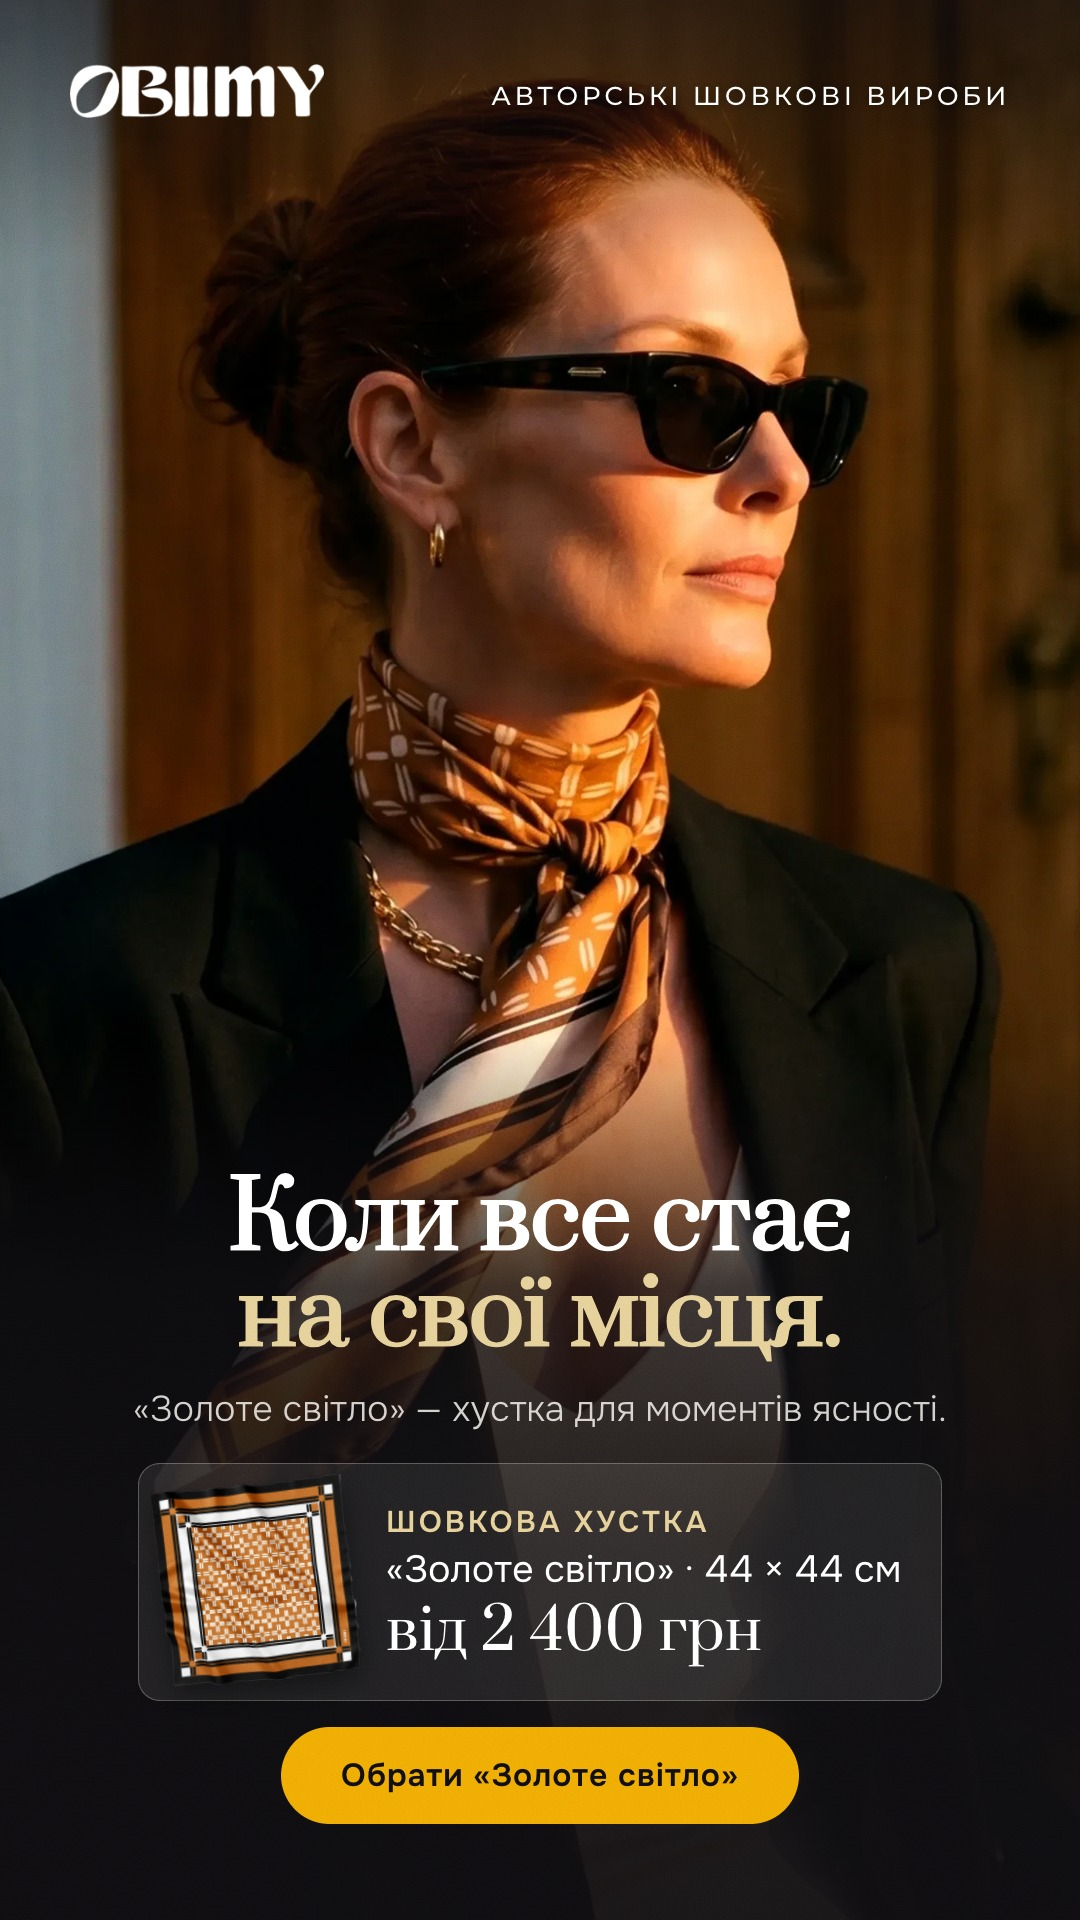
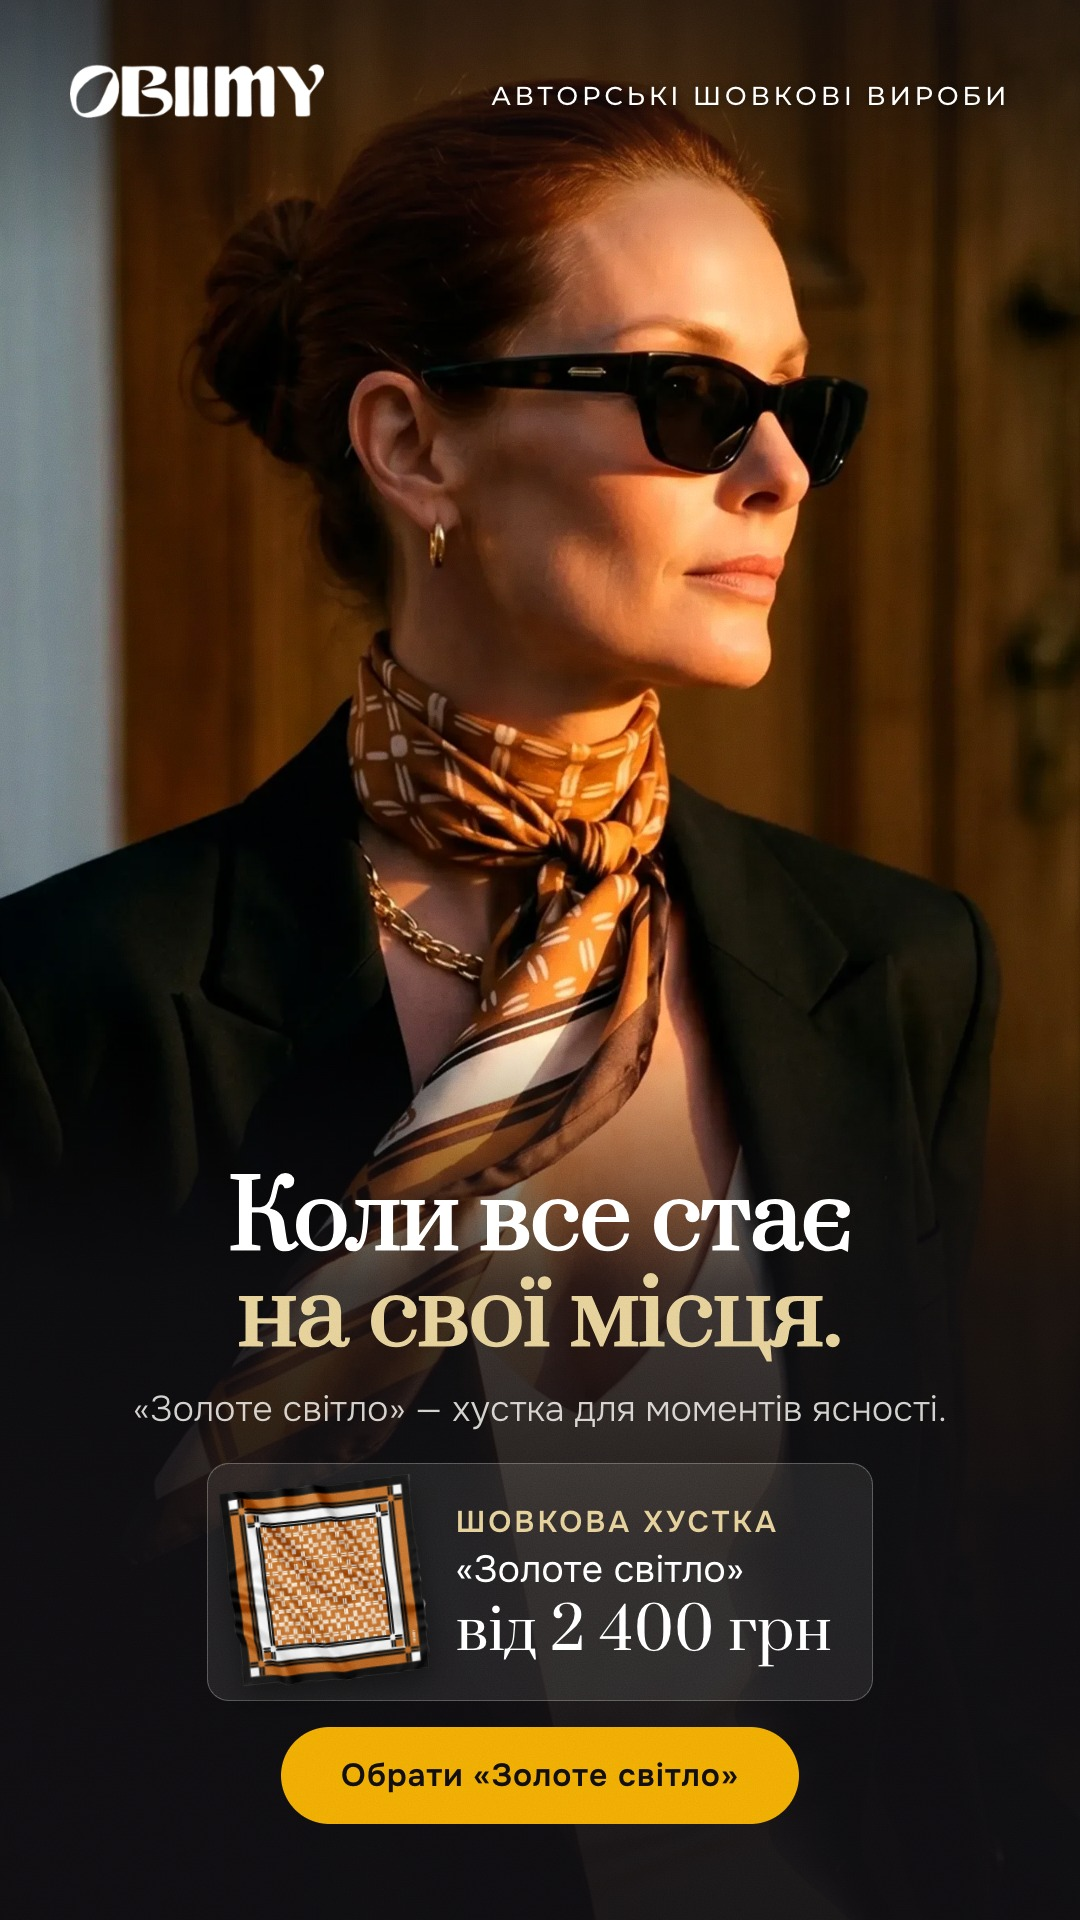
c05: no size next to «від 2 400 грн»

Changed region(s): [[0.1222, 0.75, 0.825, 0.875]]

diff --git a/site/creatives.html b/site/creatives.html
@@ -110,8 +110,8 @@ footer { margin-top: 72px; color: var(--ink2); font-size: .85rem; border-top: 1p
         <figcaption><label class="pick"><input type="checkbox" data-id="solo-orig/o12-contact-iskra.jpg"><span>Залишити</span></label><span class="fid">o12</span><a href="creatives/solo-orig/o12-contact-iskra.jpg?v=c14eb2e1" download="o12-contact-iskra.jpg">JPG ↓</a></figcaption></figure><figure class="c st" data-f="st" data-id="solo-main/u03-made-in-ua.jpg"><a href="creatives/solo-main/u03-made-in-ua.jpg?v=9a48dc13" target="_blank" rel="noopener"><img src="creatives/solo-main/u03-made-in-ua-540.webp?v=9a48dc13" alt="Варіант A · український преміум" loading="lazy" width="540" height="960"></a>
         <figcaption><label class="pick"><input type="checkbox" data-id="solo-main/u03-made-in-ua.jpg"><span>Залишити</span></label><span class="fid">u03</span><a href="creatives/solo-main/u03-made-in-ua.jpg?v=9a48dc13" download="u03-made-in-ua.jpg">JPG ↓</a></figcaption></figure><figure class="c st" data-f="st" data-id="solo-main/u05-luxury.jpg"><a href="creatives/solo-main/u05-luxury.jpg?v=9c142e12" target="_blank" rel="noopener"><img src="creatives/solo-main/u05-luxury-540.webp?v=9c142e12" alt="Варіант A · український преміум" loading="lazy" width="540" height="960"></a>
         <figcaption><label class="pick"><input type="checkbox" data-id="solo-main/u05-luxury.jpg"><span>Залишити</span></label><span class="fid">u05</span><a href="creatives/solo-main/u05-luxury.jpg?v=9c142e12" download="u05-luxury.jpg">JPG ↓</a></figcaption></figure><figure class="c st" data-f="st" data-id="solo-main/c02-iskra.jpg"><a href="creatives/solo-main/c02-iskra.jpg?v=fadee0c8" target="_blank" rel="noopener"><img src="creatives/solo-main/c02-iskra-540.webp?v=fadee0c8" alt="Варіант A · повноекранні" loading="lazy" width="540" height="960"></a>
-        <figcaption><label class="pick"><input type="checkbox" data-id="solo-main/c02-iskra.jpg"><span>Залишити</span></label><span class="fid">c02</span><a href="creatives/solo-main/c02-iskra.jpg?v=fadee0c8" download="c02-iskra.jpg">JPG ↓</a></figcaption></figure><figure class="c st" data-f="st" data-id="solo-main/c05-zolote.jpg"><a href="creatives/solo-main/c05-zolote.jpg?v=b3c76a3f" target="_blank" rel="noopener"><img src="creatives/solo-main/c05-zolote-540.webp?v=b3c76a3f" alt="Варіант A · повноекранні" loading="lazy" width="540" height="960"></a>
-        <figcaption><label class="pick"><input type="checkbox" data-id="solo-main/c05-zolote.jpg"><span>Залишити</span></label><span class="fid">c05</span><a href="creatives/solo-main/c05-zolote.jpg?v=b3c76a3f" download="c05-zolote.jpg">JPG ↓</a></figcaption></figure><figure class="c st" data-f="st" data-id="solo-main/c06-avantiura.jpg"><a href="creatives/solo-main/c06-avantiura.jpg?v=149d11a8" target="_blank" rel="noopener"><img src="creatives/solo-main/c06-avantiura-540.webp?v=149d11a8" alt="Варіант A · повноекранні" loading="lazy" width="540" height="960"></a>
+        <figcaption><label class="pick"><input type="checkbox" data-id="solo-main/c02-iskra.jpg"><span>Залишити</span></label><span class="fid">c02</span><a href="creatives/solo-main/c02-iskra.jpg?v=fadee0c8" download="c02-iskra.jpg">JPG ↓</a></figcaption></figure><figure class="c st" data-f="st" data-id="solo-main/c05-zolote.jpg"><a href="creatives/solo-main/c05-zolote.jpg?v=c023ef6a" target="_blank" rel="noopener"><img src="creatives/solo-main/c05-zolote-540.webp?v=c023ef6a" alt="Варіант A · повноекранні" loading="lazy" width="540" height="960"></a>
+        <figcaption><label class="pick"><input type="checkbox" data-id="solo-main/c05-zolote.jpg"><span>Залишити</span></label><span class="fid">c05</span><a href="creatives/solo-main/c05-zolote.jpg?v=c023ef6a" download="c05-zolote.jpg">JPG ↓</a></figcaption></figure><figure class="c st" data-f="st" data-id="solo-main/c06-avantiura.jpg"><a href="creatives/solo-main/c06-avantiura.jpg?v=149d11a8" target="_blank" rel="noopener"><img src="creatives/solo-main/c06-avantiura-540.webp?v=149d11a8" alt="Варіант A · повноекранні" loading="lazy" width="540" height="960"></a>
         <figcaption><label class="pick"><input type="checkbox" data-id="solo-main/c06-avantiura.jpg"><span>Залишити</span></label><span class="fid">c06</span><a href="creatives/solo-main/c06-avantiura.jpg?v=149d11a8" download="c06-avantiura.jpg">JPG ↓</a></figcaption></figure><figure class="c st" data-f="st" data-id="solo-main/c10-grey.jpg"><a href="creatives/solo-main/c10-grey.jpg?v=6d2e58c5" target="_blank" rel="noopener"><img src="creatives/solo-main/c10-grey-540.webp?v=6d2e58c5" alt="Варіант A · повноекранні" loading="lazy" width="540" height="960"></a>
         <figcaption><label class="pick"><input type="checkbox" data-id="solo-main/c10-grey.jpg"><span>Залишити</span></label><span class="fid">c10</span><a href="creatives/solo-main/c10-grey.jpg?v=6d2e58c5" download="c10-grey.jpg">JPG ↓</a></figcaption></figure><figure class="c st" data-f="st" data-id="solo-main/c18-look.jpg"><a href="creatives/solo-main/c18-look.jpg?v=959ab34e" target="_blank" rel="noopener"><img src="creatives/solo-main/c18-look-540.webp?v=959ab34e" alt="Варіант A · товарні" loading="lazy" width="540" height="960"></a>
         <figcaption><label class="pick"><input type="checkbox" data-id="solo-main/c18-look.jpg"><span>Залишити</span></label><span class="fid">c18</span><a href="creatives/solo-main/c18-look.jpg?v=959ab34e" download="c18-look.jpg">JPG ↓</a></figcaption></figure><figure class="c st" data-f="st" data-id="solo-main/c23-look-dark.jpg"><a href="creatives/solo-main/c23-look-dark.jpg?v=0b5e734a" target="_blank" rel="noopener"><img src="creatives/solo-main/c23-look-dark-540.webp?v=0b5e734a" alt="Варіант A · товарні" loading="lazy" width="540" height="960"></a>

diff --git a/ads/solo/solo4.html b/ads/solo/solo4.html
@@ -105,7 +105,7 @@ body { margin: 0; background: #666; font-family: 'Onest', 'Helvetica Neue', Aria
     <div style="display:flex;align-items:center;gap:32px;margin-top:28px;padding:18px 40px 18px 20px;border-radius:22px;background:rgba(244,242,237,.1);border:1.5px solid rgba(244,242,237,.3);text-align:left;box-shadow:none">
       <div style="display:flex;align-items:center;flex:none"><img src="src/zolote-44-1-cut.webp" alt="" style="height:200px;width:auto;max-width:220px;object-fit:contain;margin-left:0px;filter:drop-shadow(0 12px 14px rgba(0,0,0,.4));transform:rotate(-6deg)"></div>
       <div><p style="font-size:30px;letter-spacing:.1em;text-transform:uppercase;font-weight:700;color:#E9D7A6">Шовкова хустка</p>
-        <p style="font-size:38px;line-height:1.2;color:#fff;margin-top:6px;font-weight:400">«Золоте світло» · 44 × 44 см</p>
+        <p style="font-size:38px;line-height:1.2;color:#fff;margin-top:6px;font-weight:400">«Золоте світло»</p>
         <div style="display:flex;align-items:baseline;justify-content:space-between;gap:48px"><p style="font-family:Prata,serif;font-size:58px;line-height:1;color:#fff;margin-top:10px">від 2 400 грн</p></div></div></div>
     <div class="cta" style="position:static;transform:none;margin-top:26px">Обрати «Золоте світло»</div>
   </div>

diff --git a/ads/solo/build4.py b/ads/solo/build4.py
@@ -67,7 +67,7 @@ PROD = {
     "c01-launch": (["tysha-88-1", "iskra-tw-4", "krok-44-1"], "Шовкові хустки й твіллі", "7 авторських принтів"),
     "c02-iskra": (["iskra-65-1"], "Шовкова хустка", "«Іскра» · 65 × 65 см"),
     "c03-flirt": (["flirt-65-1"], "Шовкова хустка", "«Флірт» · 65 × 65 см"),
-    "c05-zolote": (["zolote-44-1"], "Шовкова хустка", "«Золоте світло» · 44 × 44 см"),
+    "c05-zolote": (["zolote-44-1"], "Шовкова хустка", "«Золоте світло»"),
     "c06-avantiura": (["avantiura-88-1"], "Шовкова хустка", "«Авантюра»"),
     "c07-tysha": (["tysha-88-1"], "Шовкова хустка", "«Тиша всередині» · 88 × 88 см"),
     "c08-krok": (["krok-44-1"], "Шовкова хустка", "«Сміливий крок» · 44 × 44 см"),
